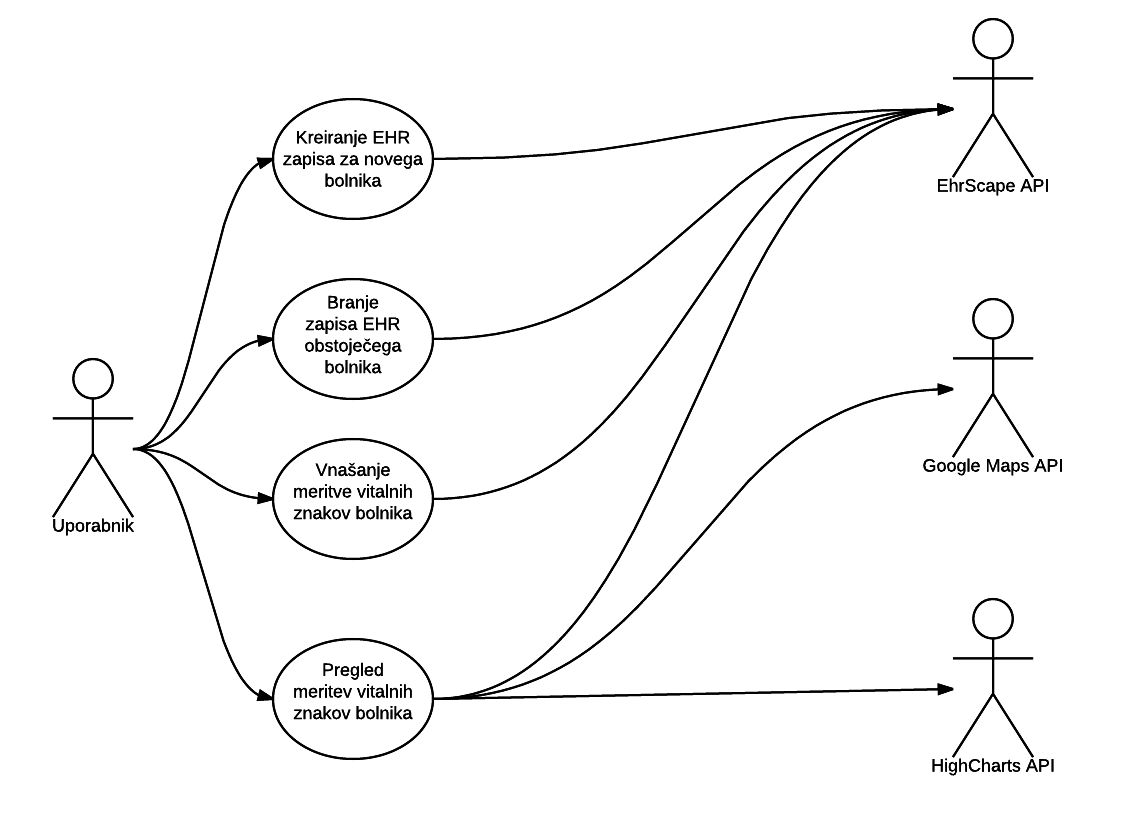
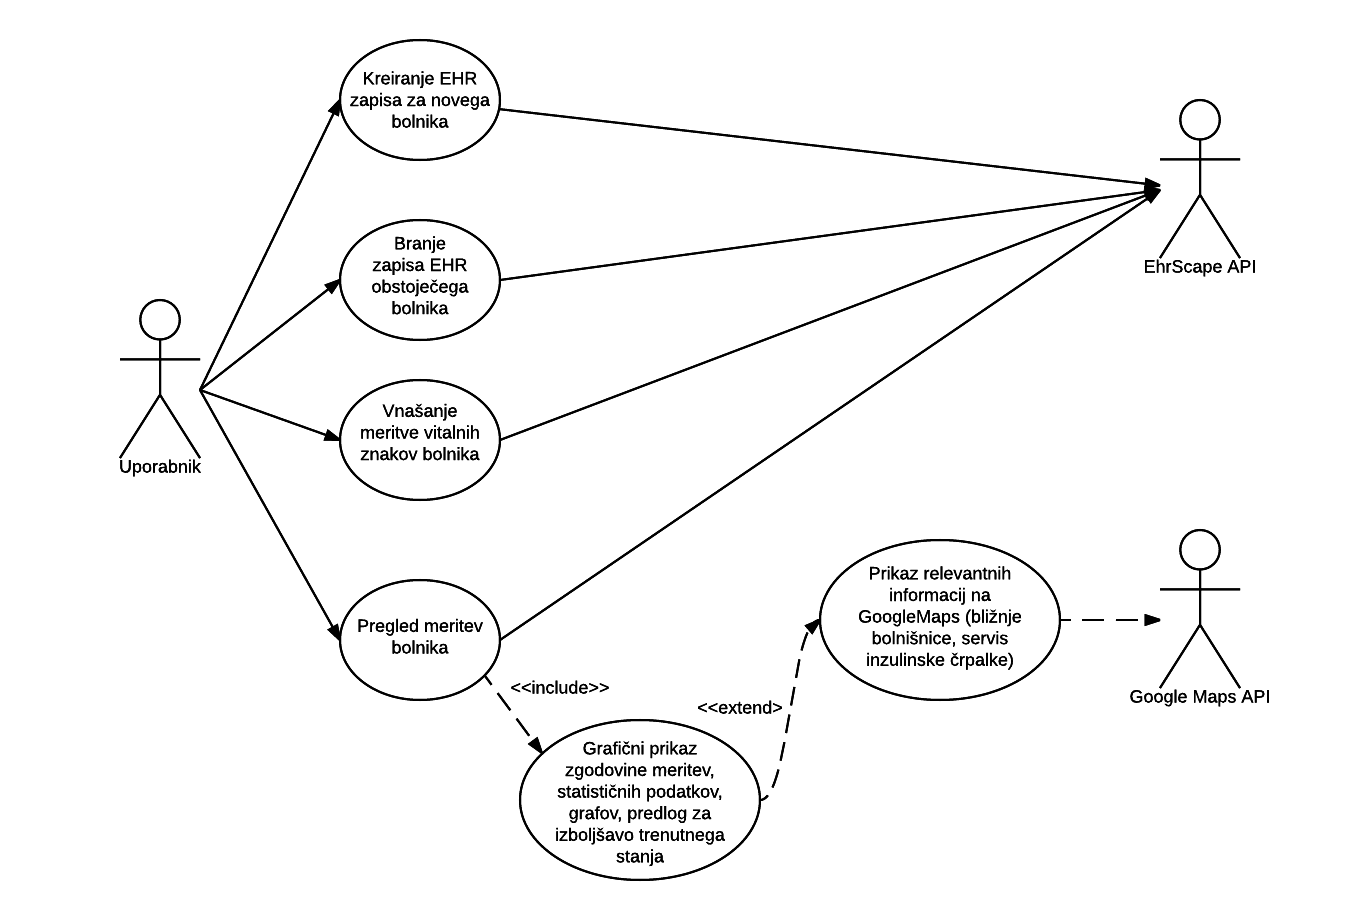
Končna verzija aplikacije

diff --git a/opis.html b/opis.html
@@ -49,17 +49,17 @@
             <h3 class="panel-title">Opis ideje, ki jo aplikacija podpira</h3>
           </div>
           <div class="panel-body">
-            Aplikacija je namenjena bolnikom sladkorne bolezni tipa 1, za pomoč pri dnevnem vodenju bolezni.
-            <br> V aplikacijo sladkorni bolnik vpisuje meritve sladkorja ter dnevno porabo inzulina, iz katerih aplikacija predlaga rešitve za izboljšanje stanja sladkorja v krvi.
-            <br> Glede na nedavne meritve se izpišejo relevantni predlogi. Na primer ob visokem mesečnem povprečju krvnega sladkorja se prikaže zemljevid bližnjega servisa inzulinskih črpalk (zaradi možne okvare), ter priporočeno zvišanje dnevne doze inzulina.
-            <br> Poleg tega se izpišejo še statistični podatki, graf količine sladkorja v krvi v preteklem mesecu in graf statistike meritev.
+            <p>Aplikacija je namenjena bolnikom sladkorne bolezni tipa 1, za pomoč pri dnevnem vodenju bolezni.</p>
+            <p>V aplikacijo sladkorni bolnik vpisuje meritve krvnega sladkorja ter dnevno porabo inzulina. Iz vnešenih podatkov meritev, aplikacija predlaga rešitve za doseganje ciljnih vrednosti sladkorja v krvi.
+            <p>Glede na redne predhodne meritve se izpišejo relevantni predlogi. Na primer ob visokem mesečnem povprečju lrvnega sladkorja (HbA1c) se prikaže priporočilo za zvišanje dnevne doze inzulina ter zemljevid bližnjega servisa inzulinskih črpalk (zaradi možne okvare).
+             Poleg tega se izpišejo še statistični podatki: graf količine sladkorja v krvi v preteklem mesecu in graf statistike vseh meritev.</p>
             <hr>
             <div class="row">
               <div class="col-lg-4 text-center">
                 <div class="thumbnail">
                   <img src="Slike/Aplikacija/2.png" class="img-responsive"></img>
                   <div class="caption">
-                    Kartica se prikaže ob ekstremno nizkem sladkorju v krvi.
+                    Kartica se prikaže, če je sladkor v krvi ekstremno nizek.
                   </div>
                 </div>
               </div>
@@ -67,7 +67,7 @@
                 <div class="thumbnail">
                   <img src="Slike/Aplikacija/4.png" class="img-responsive"></img>
                   <div class="caption">
-                    Kartica se prikaže ob previsokem mesečnem povprečju sladkorja v krvi.
+                    Kartica se prikaže, če je mesečno povprečje sladkorja v krvi previsoko.
                   </div>
                 </div>
               </div>
@@ -75,19 +75,19 @@
                 <div class="thumbnail">
                   <img src="Slike/Aplikacija/3.png" class="img-responsive"></img>
                   <div class="caption">
-                    Kartica se prikaže, ko je sladkor v mejah dobrega.
+                    Kartica se prikaže, če je sladkor v krvi v mejah normale (dosežene so ciljne vrednosti).
                   </div>
                 </div>
                 <div class="thumbnail">
                   <img src="Slike/Aplikacija/5.png" class="img-responsive"></img>
                   <div class="caption">
-                    Kartica se prilaže ob previsoki trenutni koločini sladkorja v krvi.
+                    Kartica se prikaže, če je sladkor v krvi previsok.
                   </div>
                 </div>
                 <div class="thumbnail">
                   <img src="Slike/Aplikacija/1.png" class="img-responsive"></img>
                   <div class="caption">
-                    Kartica se prikaže ob ekstremno nizkem sladkorju v krvi.
+                    Kartica se prikaže, če je sladkor v krvi ekstremno nizek (težka hipa).
                   </div>
                 </div>
               </div>
@@ -100,12 +100,9 @@
           </div>
           <div class="panel-body">
             Google Maps: <a class="btn btn-link" href="https://developers.google.com/maps/documentation/embed/">https://developers.google.com/maps/documentation/embed/ <span class="glyphicon glyphicon-link" aria-hidden="true"></span></a>(API-klic)
-            <br>Google Maps sem v aplikaciji uporabil z embed API-jem. Mapa se prikaže s pomočjo iframe. Uporabil sem ga za prikaz bližnjih bolnišnic (v primeru ekstremnega sladkorja v krvi), ter bližnjega servisa inzulinskih črpalk (v primeru visokega povprečnega
-            sladkorja v krvi).
+            <p>Google Maps sem v aplikaciji uporabil z embed API-jem. Mapa se prikaže s pomočjo iframe. Uporabil sem ga za prikaz bližnjih bolnišnic (v primeru ekstremnega sladkorja v krvi), ter prikaz bližnjega servisa inzulinskih črpalk (v primeru visokega povprečnega sladkorja v krvi).</p>
             <hr class="m-y-2"> Zaloker&Zaloker E-gradiva: <a class="btn btn-link" href="http://www.zaloker-zaloker.si/sl/sladkorna-bolezen/e-gradiva/">http://www.zaloker-zaloker.si/sl/sladkorna-bolezen/e-gradiva/ <span class="glyphicon glyphicon-link" aria-hidden="true"></span></a>(informacije)
-            <br> E-gradiva sem uporabil za pridobitev informacij o izračunu potrebnih doziranj inzulina ter glukoze za izboljšanje ravni sladkorja v krvi, ter priporočenih vrednosti sladkorja v krvi. Informacije pridobljene iz tega vira so "hard-coded" v
-            programu.
-
+            <p> E-gradiva sem uporabil za pridobitev informacij o postopku izračuna potrebnih doziranj inzulina in glukoze za izboljšanje ravni sladkorja v krvi, ter informacije o priporočenih vrednosti sladkorja v krvi. Informacije pridobljene iz tega vira so "hard-coded" v programu.</p>
           </div>
         </div>
         <div class="panel panel-info">
@@ -113,7 +110,7 @@
             <h3 class="panel-title">Master/detail načrtovalski vzorec</h3>
           </div>
           <div class="panel-body">
-            Master/detail načrtovalski vzorec sem uporabil pri pregledu zgodovine vseh meritev (v pogledu Master/detail). Ob kliku na datum/uro, se prikažejo vsi podatki meritve (sladkor v krvi, celodnevni odmerek inzulina ter teža).
+            <p>Master/detail načrtovalski vzorec sem uporabil pri pregledu zgodovine vseh meritev (v pogledu Master/detail). Ob kliku na datum/uro, se prikažejo vsi podatki meritve (sladkor v krvi, celodnevni odmerek inzulina in teža).</p>
             <hr>
             <div class="row">
               <div class="col-lg-3 text-center" style="float: none; margin: 0 auto;">
@@ -124,6 +121,7 @@
                   </div>
                 </div>
               </div>
+            </div>
           </div>
         </div>
         <div class="panel panel-info">
@@ -132,8 +130,7 @@
           </div>
           <div class="panel-body">
             Za risanje grafa sem uporabil knjižnico HighCharts: <a class="btn btn-link" href="http://www.highcharts.com/">http://www.highcharts.com/ <span class="glyphicon glyphicon-link" aria-hidden="true"></span></a>
-            <br>Po daljšem iskanju knjižnice za risanje grafov sem se odločil za HighCharts, ker sem z njo dosti lažje narišal objektivno lešpše grafe, kot pa s podobnimi knjižnicami. Uporabil sem tudi ToolTip-e ter opciojo neenakomerno časovno razporejenih
-            podatkov.
+            <br>Po daljšem iskanju knjižnice za risanje grafov sem se odločil za HighCharts, ker sem z njo dosti lažje narisal objektivno lešpše grafe, kot pa s podobnimi knjižnicami. Uporabil sem tudi ToolTipe ter opciojo časovno neenakomerno razporejenih podatkov.
             <br>Ustvaril sem dva grafa, in scer linijski diagram krvnega sladkorja v preteklem mesecu ter tortni diagram statistike meritev.
             <hr>
             <div class="row">
@@ -144,8 +141,8 @@
                     Graf, ki prikazuje količino meritev v posemaznih mejah.
                   </div>
                 </div>
-                </div>
-                <div class="col-lg-6 text-center">
+              </div>
+              <div class="col-lg-6 text-center">
                 <div class="thumbnail">
                   <img src="Slike/Aplikacija/g2.png" class="img-responsive"></img>
                   <div class="caption">
@@ -153,12 +150,12 @@
                   </div>
                 </div>
               </div>
+            </div>
           </div>
         </div>
       </div>
     </div>
-  </div>
-  <!-- KONEC: Opis delovanja aplikacije -->
+    <!-- KONEC: Opis delovanja aplikacije -->
 
 </body>
 

diff --git a/knjiznice/js/koda.js b/knjiznice/js/koda.js
@@ -43,7 +43,7 @@ function kreirajEHR() {
     var datumRojstva = $("#kreirajDatumRojstva").val();
 
     if (!ime || !priimek || !datumRojstva || ime.trim().length == 0 || priimek.trim().length == 0 || datumRojstva.trim().length == 0) {
-        $("#kreirajSporocilo").html("<div class='alert alert-dismissible alert-warning'><button type='button' class='close' data-dismiss='alert'>&times;</button>Prosim vnesi vse zahtevane podatke!</div>");
+        $("#kreirajSporocilo").html("<div class='alert alert-dismissible alert-warning'><button type='button' class='close' data-dismiss='alert'>&times;</button>Prosim vnesi EHRid!</div>");
     }
     else {
         $.ajaxSetup({
@@ -374,7 +374,7 @@ function preberiZgodovinoMeritev() {
                     kartice += "<div class=\"alert alert-dismissible alert-success\">";
                     kartice += "                  <button type=\"button\" class=\"close\" data-dismiss=\"alert\">&times;<\/button>";
                     kartice += "                  <h4><strong>Vse v redu!<\/strong><\/h4>";
-                    kartice += "                  <p>Sladkor v krvi je v običajnih mejah.";
+                    kartice += "                  <p>Trenutni sladkor v krvi je v običajnih mejah.";
                     kartice += "                <\/div>";
                     
                 }
@@ -383,14 +383,14 @@ function preberiZgodovinoMeritev() {
                     kartice += "<div class=\"alert alert-dismissible alert-" + ((zadnjaMeritev > 15 || zadnjaMeritev < 1.5)? "danger" : "warning") + "\">";
                     kartice += "                  <button type=\"button\" class=\"close\" data-dismiss=\"alert\">&times;<\/button>";
                     kartice += "                  <h4><strong>" + ((zadnjaMeritev > 15 || zadnjaMeritev < 1.5)? "Nevarnost!" : "Pozor!") + "<\/strong><\/h4>";
-                    kartice += "                  <p>Sladkor v krvi je <strong>" + ((zadnjaMeritev > 6)? "previsok" : "prenizek") + "<\/strong> za " + Math.round(Math.abs(zadnjaMeritev - ((zadnjaMeritev > 6)? 6 : 3.5)) * 100) / 100 + " mmol\/L.";
+                    kartice += "                  <p>Trenutni sladkor v krvi je <strong>" + ((zadnjaMeritev > 6)? "previsok" : "prenizek") + "<\/strong> za " + Math.round(Math.abs(zadnjaMeritev - ((zadnjaMeritev > 6)? 6 : 3.5)) * 100) / 100 + " mmol\/L.";
                     kartice += "                  <br><hr>";
                     if(zadnjaMeritev > 6){
                         kartice += "                    Priporočam doziranje " + Math.round(((zadnjaMeritev - 6) / pravilo100) * 100) / 100  + " enot inzulina.<\/p>";
                     }
                     else{
+                        if (zadnjaMeritev < 1.5)  kartice += "                    <h4><strong>Nujno injeciranje glukagona direktno v mišico in klic na 112!</strong></h4><\/p>";
                         kartice += "                    Priporočam zaužitje " + Math.round((zadnjaTeza / 10 * 4) * 100) / 100 + " g glukoze.<\/p>";
-                        if (zadnjaMeritev < 1.5)  kartice += "                    <br><h4><strong>Nujno injeciranje glukagona direktno v mišico in klic na 112!</strong></h4><\/p>";
                     }
                     kartice += "                <\/div>";
                 }
@@ -430,6 +430,13 @@ function preberiZgodovinoMeritev() {
                     kartice += "                        &q=Zaloker%20%26%20Zaloker \" allowfullscreen>";
                     kartice += "                    <\/iframe>";
                     kartice += "                  <\/div>";
+                    kartice += "                <\/div>";
+                }
+                else if (mesecnoPovprecje > 3.5){
+                    kartice += "<div class=\"alert alert-dismissible alert-success\">";
+                    kartice += "                  <button type=\"button\" class=\"close\" data-dismiss=\"alert\">&times;<\/button>";
+                    kartice += "                  <h4><strong>Mesečno povprečje v redu!<\/strong><\/h4>";
+                    kartice += "                  <p>Mesečno povprečje sladkorja v krvi je v običajnih mejah.";
                     kartice += "                <\/div>";
                 }
                 
@@ -658,8 +665,7 @@ function GenPodatke(){
     generirajPodatkeMeritve(2, "2016-6-5T03:15", "10.7", "40", "50");
     generirajPodatkeMeritve(2, "2016-6-5T13:25", "7.2", "40", "50");
     generirajPodatkeMeritve(2, "2016-6-5T18:30", "3.5", "40", "50");
-    generirajPodatkeMeritve(2, "2016-6-6T14:35", "4.5", "40", "50");
-    generirajPodatkeMeritve(2, "2016-6-6T18:10", "5.7", "40", "49");
+    generirajPodatkeMeritve(2, "2016-6-5T22:30", "5.7", "40", "50");
     
     generirajPodatkeMeritve(3, "2016-5-27T15:30", "6.2", "70", "90");
     generirajPodatkeMeritve(3, "2016-5-28T18:10", "7.3", "70", "91");
@@ -677,7 +683,7 @@ function GenPodatke(){
     $('#btnMicka').removeClass('disabled');
     $('#btnJohn').removeClass('disabled');
     
-    $("#prijavaUporabnika").html("<div class='alert alert-dismissible alert-success'><button type='button' class='close' data-dismiss='alert'>&times;</button>Uspešno generirani podatki:<br>" + prviUporabnik + "<br>" + drugiUporabnik + "<br>" + tretjiUporabnik + "<br>Klikni na ime za avtomatsko prijavo!</div>");
+    $("#prijavaUporabnika").html("<div class='alert alert-dismissible alert-success'><button type='button' class='close' data-dismiss='alert'>&times;</button>Uspešno generirani podatki:<br>Janez Novak: " + prviUporabnik + "<br>Micka Janša: " + drugiUporabnik + "<br>Janez Umazani: " + tretjiUporabnik + "<br>Klikni na gumb z imenom uporabnika za avtomatsko prijavo!</div>");
 }
 
 $(function() {
@@ -812,7 +818,7 @@ $(function () {
         },
         series: [{
             colorByPoint: true,
-            
+            name: 'Količina meritev v tem območju',
             innerSize: '50%',
             data: [{
             	name: "Hipa pod 1.5",

diff --git a/index.html b/index.html
@@ -166,7 +166,7 @@
                 </div>
                 <br>
                 <div class="input-group">
-                  <input id="dodajMeritevKrvniSladkor" type="number" class="form-control" placeholder="Sladkor v krvi" aria-describedby="basic-addon1">
+                  <input id="dodajMeritevKrvniSladkor" type="number" class="form-control" placeholder="Sladkor v krvi" aria-describedby="basic-addon1" data-toggle="tooltip" data-placement="right" title="" data-original-title="Glej: Tabela priporočenih vrednosti sladkorja v krvi">
                   <span class="input-group-addon" id="basic-addon1">mmol/L</span>
                 </div>
                 <br>
@@ -324,7 +324,7 @@
                       <td><span id="statistika2"></span></td>
                     </tr>
                     <tr>
-                      <th class="text-center">1 enota inzulina predvidoma zniža sladkor za</th>
+                      <th class="text-center">1 enota inzulina predvidoma zniža sladkor za: <span class='notbold'>(pravilo 100)</span></th>
                       <td><span id="statistika3"></span></td>
                     </tr>
                     <tr>
@@ -339,6 +339,8 @@
                   <h3 class="panel-title">Statistika meritev</h3>
                 </div>
                 <div id="graphPie" style="min-width: 250px; height: 250px; margin: 0 auto"></div>
+                <hr>
+                <p>Graf predstavlja količino meritev po območjih. Številke v legendi predstavljajo količino sladkorja v krvi (mmol/L).<br>Glej: <i>Tabela priporočenih vrednosti sladkorja v krvi</i><br><b>Hipa</b> - hipoglikemija<br><b>Hiper</b> - hiperglikemija</p>
               </div>
             </div>
             <div class="col-lg-8 text-center">

diff --git a/nacrt.html b/nacrt.html
@@ -61,7 +61,7 @@
             <h3 class="panel-title">Diagram zaporedja</h3>
           </div>
           <div class="panel-body">
-            Diagram zaporedja ob kliku na gumb Prijava. Najprej se preveri EHRid, nato pa se poizve zgodovina meritev, ter ob upehu izpiše tabele, grafe, omogoči vnos meritve ipd.
+            <p>Diagram zaporedja ob kliku na gumb Prijava. Najprej se preveri EHRid, nato pa se poizve zgodovina meritev, ter ob upehu izpiše tabele, grafe, omogoči vnos meritve ipd.</p>
             <img src="Slike/DZ.png" class="img-responsive">
           </div>
         </div>
